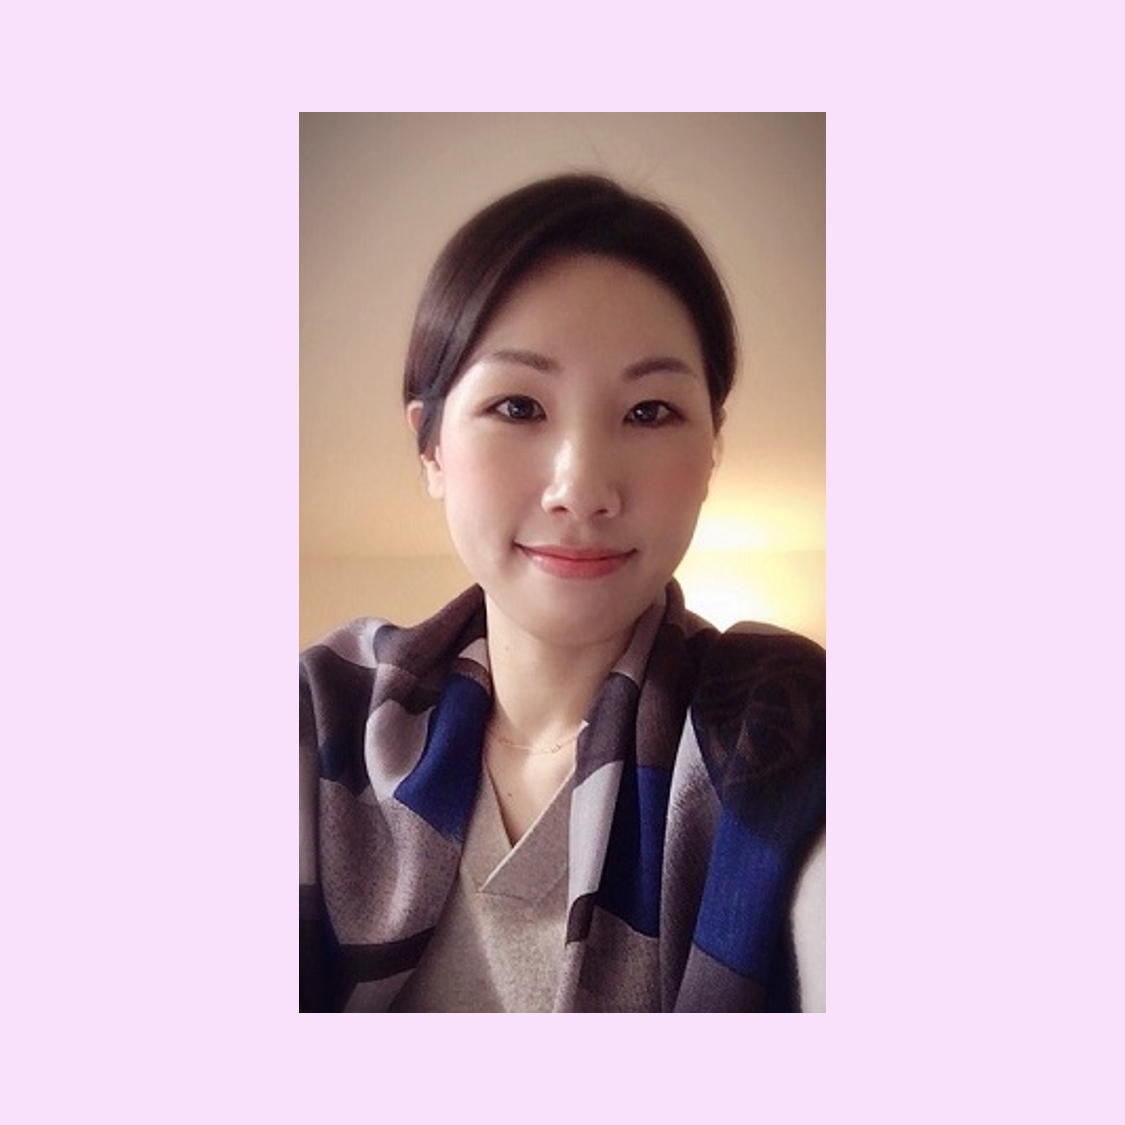
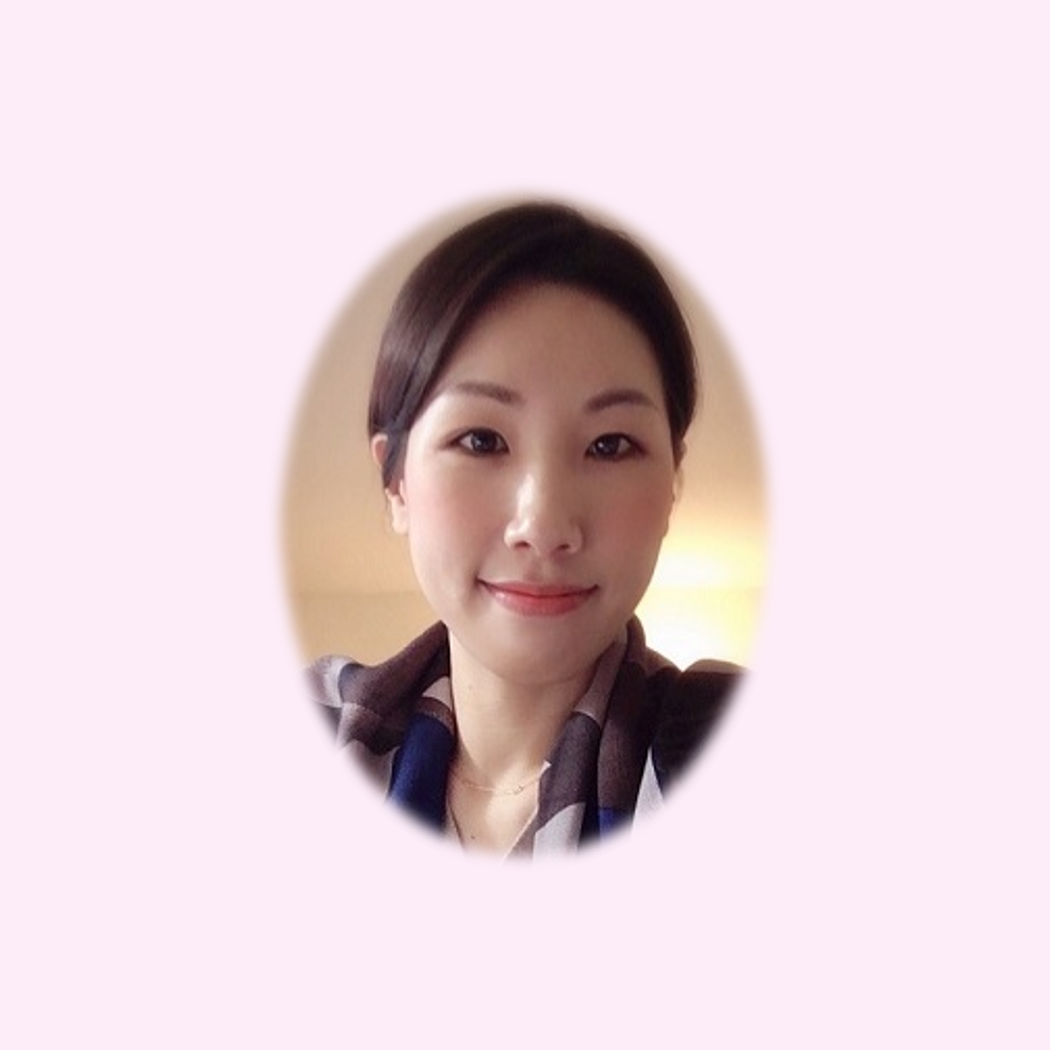
Update

Changed region(s): [[0.2438, 0.0914, 0.7619, 0.9143]]

diff --git a/post/hfsa/index.html b/post/hfsa/index.html
@@ -641,7 +641,7 @@
   <div class="media author-card">
     
       
-      <img class="portrait mr-3" src="/authors/admin/avatar_hu32ae9b0e121464c9c34dfb277538d2f4_981755_250x250_fill_q90_lanczos_center.jpg" alt="Avatar">
+      <img class="portrait mr-3" src="/authors/admin/avatar_hu0600982bb686398452d912d8d6e3e726_637153_250x250_fill_q90_lanczos_center.jpg" alt="Avatar">
     
 
     <div class="media-body">

diff --git a/post/rpackage1/index.html b/post/rpackage1/index.html
@@ -645,7 +645,7 @@
   <div class="media author-card">
     
       
-      <img class="portrait mr-3" src="/authors/admin/avatar_hu32ae9b0e121464c9c34dfb277538d2f4_981755_250x250_fill_q90_lanczos_center.jpg" alt="Avatar">
+      <img class="portrait mr-3" src="/authors/admin/avatar_hu0600982bb686398452d912d8d6e3e726_637153_250x250_fill_q90_lanczos_center.jpg" alt="Avatar">
     
 
     <div class="media-body">

diff --git a/post/rpackage2/index.html b/post/rpackage2/index.html
@@ -645,7 +645,7 @@
   <div class="media author-card">
     
       
-      <img class="portrait mr-3" src="/authors/admin/avatar_hu32ae9b0e121464c9c34dfb277538d2f4_981755_250x250_fill_q90_lanczos_center.jpg" alt="Avatar">
+      <img class="portrait mr-3" src="/authors/admin/avatar_hu0600982bb686398452d912d8d6e3e726_637153_250x250_fill_q90_lanczos_center.jpg" alt="Avatar">
     
 
     <div class="media-body">

diff --git a/post/rpackage3/index.html b/post/rpackage3/index.html
@@ -645,7 +645,7 @@
   <div class="media author-card">
     
       
-      <img class="portrait mr-3" src="/authors/admin/avatar_hu32ae9b0e121464c9c34dfb277538d2f4_981755_250x250_fill_q90_lanczos_center.jpg" alt="Avatar">
+      <img class="portrait mr-3" src="/authors/admin/avatar_hu0600982bb686398452d912d8d6e3e726_637153_250x250_fill_q90_lanczos_center.jpg" alt="Avatar">
     
 
     <div class="media-body">

diff --git a/resource/rpackage1/index.html b/resource/rpackage1/index.html
@@ -578,7 +578,7 @@
   <div class="media author-card">
     
       
-      <img class="portrait mr-3" src="/authors/admin/avatar_hu32ae9b0e121464c9c34dfb277538d2f4_981755_250x250_fill_q90_lanczos_center.jpg" alt="Avatar">
+      <img class="portrait mr-3" src="/authors/admin/avatar_hu0600982bb686398452d912d8d6e3e726_637153_250x250_fill_q90_lanczos_center.jpg" alt="Avatar">
     
 
     <div class="media-body">

diff --git a/resource/rpackage2/index.html b/resource/rpackage2/index.html
@@ -578,7 +578,7 @@
   <div class="media author-card">
     
       
-      <img class="portrait mr-3" src="/authors/admin/avatar_hu32ae9b0e121464c9c34dfb277538d2f4_981755_250x250_fill_q90_lanczos_center.jpg" alt="Avatar">
+      <img class="portrait mr-3" src="/authors/admin/avatar_hu0600982bb686398452d912d8d6e3e726_637153_250x250_fill_q90_lanczos_center.jpg" alt="Avatar">
     
 
     <div class="media-body">

diff --git a/resource/rpackage3/index.html b/resource/rpackage3/index.html
@@ -578,7 +578,7 @@
   <div class="media author-card">
     
       
-      <img class="portrait mr-3" src="/authors/admin/avatar_hu32ae9b0e121464c9c34dfb277538d2f4_981755_250x250_fill_q90_lanczos_center.jpg" alt="Avatar">
+      <img class="portrait mr-3" src="/authors/admin/avatar_hu0600982bb686398452d912d8d6e3e726_637153_250x250_fill_q90_lanczos_center.jpg" alt="Avatar">
     
 
     <div class="media-body">

diff --git a/talk/csun_2019/index.html b/talk/csun_2019/index.html
@@ -645,7 +645,7 @@
   <div class="media author-card">
     
       
-      <img class="portrait mr-3" src="/authors/admin/avatar_hu32ae9b0e121464c9c34dfb277538d2f4_981755_250x250_fill_q90_lanczos_center.jpg" alt="Avatar">
+      <img class="portrait mr-3" src="/authors/admin/avatar_hu0600982bb686398452d912d8d6e3e726_637153_250x250_fill_q90_lanczos_center.jpg" alt="Avatar">
     
 
     <div class="media-body">

diff --git a/talk/enrs_2019/index.html b/talk/enrs_2019/index.html
@@ -646,7 +646,7 @@
   <div class="media author-card">
     
       
-      <img class="portrait mr-3" src="/authors/admin/avatar_hu32ae9b0e121464c9c34dfb277538d2f4_981755_250x250_fill_q90_lanczos_center.jpg" alt="Avatar">
+      <img class="portrait mr-3" src="/authors/admin/avatar_hu0600982bb686398452d912d8d6e3e726_637153_250x250_fill_q90_lanczos_center.jpg" alt="Avatar">
     
 
     <div class="media-body">

diff --git a/talk/hfsa_2019/index.html b/talk/hfsa_2019/index.html
@@ -645,7 +645,7 @@
   <div class="media author-card">
     
       
-      <img class="portrait mr-3" src="/authors/admin/avatar_hu32ae9b0e121464c9c34dfb277538d2f4_981755_250x250_fill_q90_lanczos_center.jpg" alt="Avatar">
+      <img class="portrait mr-3" src="/authors/admin/avatar_hu0600982bb686398452d912d8d6e3e726_637153_250x250_fill_q90_lanczos_center.jpg" alt="Avatar">
     
 
     <div class="media-body">

diff --git a/talk/icqe_2019/index.html b/talk/icqe_2019/index.html
@@ -645,7 +645,7 @@
   <div class="media author-card">
     
       
-      <img class="portrait mr-3" src="/authors/admin/avatar_hu32ae9b0e121464c9c34dfb277538d2f4_981755_250x250_fill_q90_lanczos_center.jpg" alt="Avatar">
+      <img class="portrait mr-3" src="/authors/admin/avatar_hu0600982bb686398452d912d8d6e3e726_637153_250x250_fill_q90_lanczos_center.jpg" alt="Avatar">
     
 
     <div class="media-body">

diff --git a/talk/isdsa_2020/index.html b/talk/isdsa_2020/index.html
@@ -644,7 +644,7 @@
   <div class="media author-card">
     
       
-      <img class="portrait mr-3" src="/authors/admin/avatar_hu32ae9b0e121464c9c34dfb277538d2f4_981755_250x250_fill_q90_lanczos_center.jpg" alt="Avatar">
+      <img class="portrait mr-3" src="/authors/admin/avatar_hu0600982bb686398452d912d8d6e3e726_637153_250x250_fill_q90_lanczos_center.jpg" alt="Avatar">
     
 
     <div class="media-body">
